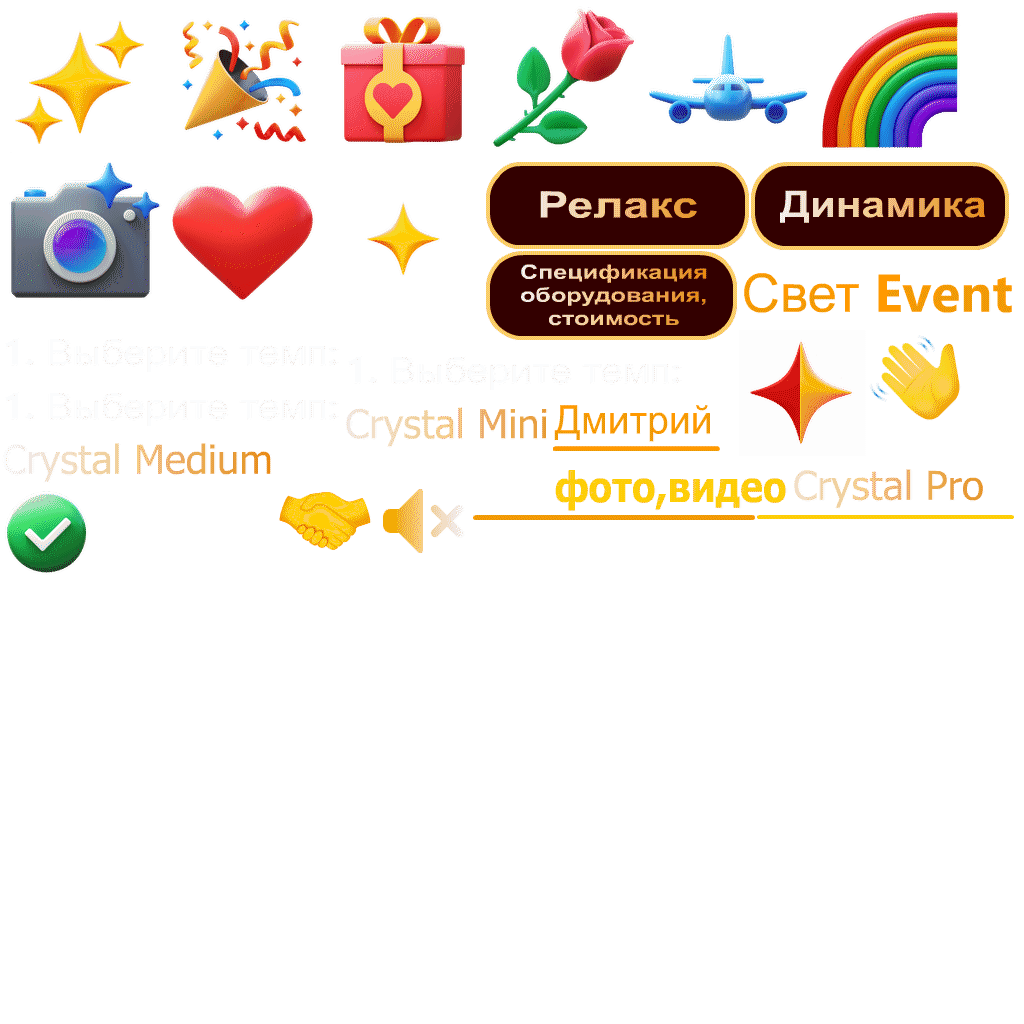
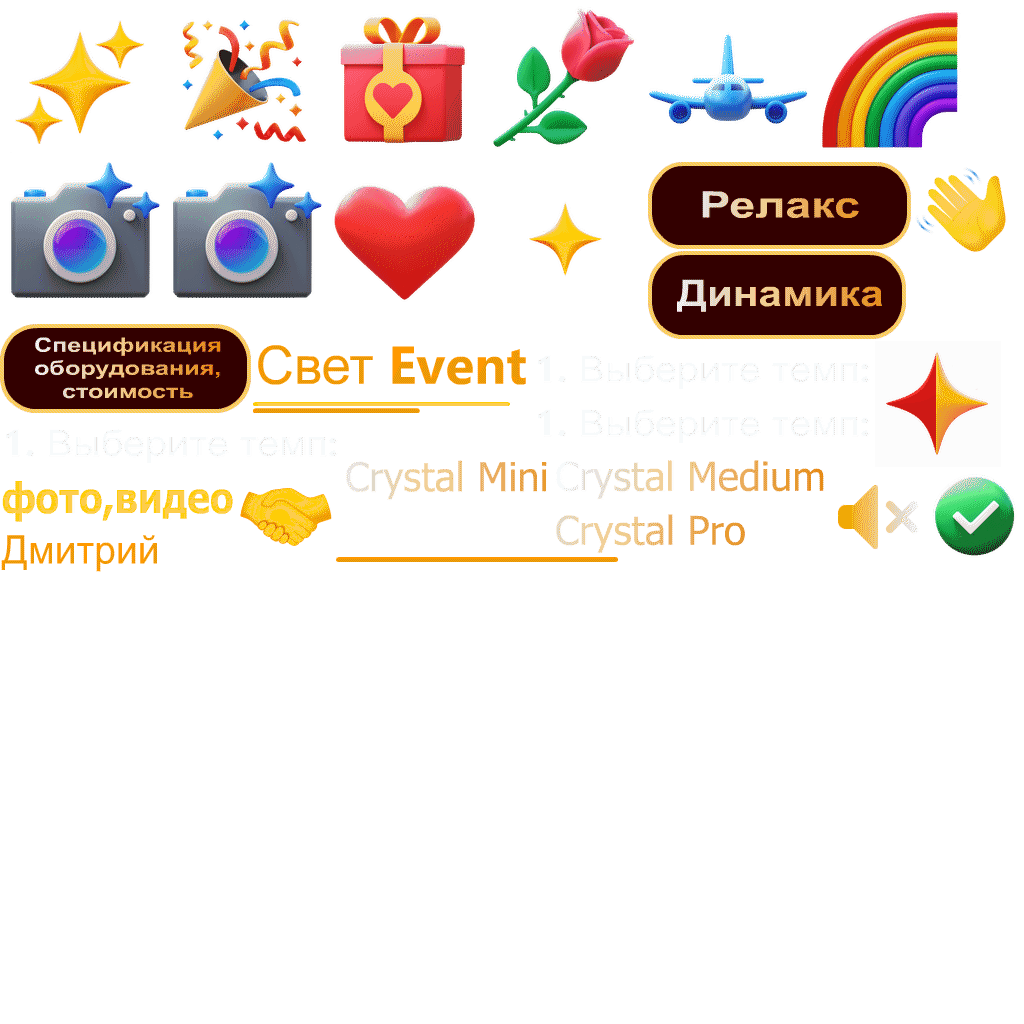
in

diff --git a/index.js b/index.js
@@ -3,7 +3,7 @@
 var p; // shortcut to reference prototypes
 var lib={};var ss={};var img={};
 lib.ssMetadata = [
-		{name:"index_atlas_1", frames: [[473,515,282,5],[739,252,277,76],[553,396,162,48],[553,446,167,5],[0,324,341,52],[343,342,341,52],[0,378,341,52],[553,458,236,55],[757,515,257,4],[486,251,251,89],[343,396,208,75],[486,162,263,87],[0,432,275,52],[751,162,258,88],[791,458,195,52],[739,330,126,126],[0,0,160,160],[0,486,94,94],[162,0,160,160],[324,0,160,160],[486,0,160,160],[648,0,160,160],[867,330,96,96],[810,0,160,160],[277,473,96,96],[0,162,160,160],[162,162,160,160],[324,162,160,160],[375,473,96,96]]},
+		{name:"index_atlas_1", frames: [[336,557,282,5],[253,324,277,76],[0,526,162,48],[253,408,167,5],[532,341,341,52],[532,395,341,52],[0,415,341,52],[0,469,236,55],[253,402,257,4],[0,324,251,89],[343,449,208,75],[648,162,263,87],[553,449,275,52],[648,251,258,88],[553,503,195,52],[875,341,126,126],[0,0,160,160],[928,469,94,94],[162,0,160,160],[324,0,160,160],[486,0,160,160],[648,0,160,160],[913,162,96,96],[810,0,160,160],[238,469,96,96],[0,162,160,160],[162,162,160,160],[324,162,160,160],[486,162,160,160],[830,469,96,96]]},
 		{name:"index_atlas_2", frames: [[0,0,973,1413],[0,1415,1118,176],[1120,1425,361,264],[0,1593,1118,176],[1120,1691,361,264],[0,1771,1118,176],[1483,1430,361,264],[1846,1430,160,160],[1483,1696,240,240],[1846,1592,160,160],[1725,1754,160,160],[1120,1026,447,397],[975,0,1024,1024],[1569,1026,353,402]]}
 ];
 
@@ -245,12 +245,6 @@ lib.ssMetadata = [
 
 
 
-(lib.PRICE1 = function() {
-	this.initialize(img.PRICE1);
-}).prototype = p = new cjs.Bitmap();
-p.nominalBounds = new cjs.Rectangle(0,0,1637,2310);
-
-
 (lib.PRICE2 = function() {
 	this.initialize(img.PRICE2);
 }).prototype = p = new cjs.Bitmap();
@@ -326,23 +320,30 @@ p.nominalBounds = new cjs.Rectangle(0,0,1637,2310);
 
 
 
-(lib.s_9 = function() {
+(lib.s_5_1 = function() {
 	this.initialize(ss["index_atlas_1"]);
 	this.gotoAndStop(26);
 }).prototype = p = new cjs.Sprite();
 
 
 
-(lib.standart = function() {
+(lib.s_9 = function() {
 	this.initialize(ss["index_atlas_1"]);
 	this.gotoAndStop(27);
 }).prototype = p = new cjs.Sprite();
 
 
 
-(lib.zv = function() {
+(lib.standart = function() {
 	this.initialize(ss["index_atlas_1"]);
 	this.gotoAndStop(28);
+}).prototype = p = new cjs.Sprite();
+
+
+
+(lib.zv = function() {
+	this.initialize(ss["index_atlas_1"]);
+	this.gotoAndStop(29);
 }).prototype = p = new cjs.Sprite();
 // helper functions:
 
@@ -388,6 +389,28 @@ if (reversed == null) { reversed = false; }
 	this._renderFirstFrame();
 
 }).prototype = getMCSymbolPrototype(lib.video_slot, new cjs.Rectangle(-1,-1,1063.1,1063.1), null);
+
+
+(lib.Symbol55 = function(mode,startPosition,loop,reversed) {
+if (loop == null) { loop = true; }
+if (reversed == null) { reversed = false; }
+	var props = new Object();
+	props.mode = mode;
+	props.startPosition = startPosition;
+	props.labels = {};
+	props.loop = loop;
+	props.reversed = reversed;
+	cjs.MovieClip.apply(this,[props]);
+
+	// Layer_1
+	this.instance = new lib.s_5();
+	this.instance.setTransform(0,0,5.735,5.0363);
+
+	this.timeline.addTween(cjs.Tween.get(this.instance).wait(1));
+
+	this._renderFirstFrame();
+
+}).prototype = getMCSymbolPrototype(lib.Symbol55, new cjs.Rectangle(0,0,917.6,805.8), null);
 
 
 (lib.Symbol11 = function(mode,startPosition,loop,reversed) {
@@ -772,29 +795,6 @@ if (reversed == null) { reversed = false; }
 
 }).prototype = p = new cjs.MovieClip();
 p.nominalBounds = new cjs.Rectangle(0,0,1067.8,1562.5);
-
-
-(lib.Price1 = function(mode,startPosition,loop,reversed) {
-if (loop == null) { loop = true; }
-if (reversed == null) { reversed = false; }
-	var props = new Object();
-	props.mode = mode;
-	props.startPosition = startPosition;
-	props.labels = {};
-	props.loop = loop;
-	props.reversed = reversed;
-	cjs.MovieClip.apply(this,[props]);
-
-	// Layer_5
-	this.instance = new lib.PRICE1();
-	this.instance.setTransform(0,0,0.6512,0.675);
-
-	this.timeline.addTween(cjs.Tween.get(this.instance).wait(12));
-
-	this._renderFirstFrame();
-
-}).prototype = p = new cjs.MovieClip();
-p.nominalBounds = new cjs.Rectangle(0,0,1066,1559.4);
 
 
 (lib.Mute = function(mode,startPosition,loop,reversed) {
@@ -1382,9 +1382,9 @@ if (reversed == null) { reversed = false; }
 	this.timeline.addTween(cjs.Tween.get(this).call(this.frame_0).wait(12));
 
 	// Price1
-	this.pr1_foto = new lib.Price1();
+	this.pr1_foto = new lib.Symbol55();
 	this.pr1_foto.name = "pr1_foto";
-	this.pr1_foto.setTransform(543,1040.6,1,1,0,0,0,533,779.6);
+	this.pr1_foto.setTransform(537.8,854.9,1,1,0,0,0,458.8,402.9);
 
 	this.timeline.addTween(cjs.Tween.get(this.pr1_foto).wait(12));
 
@@ -1485,7 +1485,7 @@ if (reversed == null) { reversed = false; }
 	this._renderFirstFrame();
 
 }).prototype = p = new cjs.MovieClip();
-p.nominalBounds = new cjs.Rectangle(10,117.4,1145.2,1756.3999999999999);
+p.nominalBounds = new cjs.Rectangle(12.2,117.4,1143,1756.3999999999999);
 
 
 (lib.page_3 = function(mode,startPosition,loop,reversed) {
@@ -2754,7 +2754,7 @@ if (reversed == null) { reversed = false; }
 	this.instance_6 = new lib.s_37();
 	this.instance_6.setTransform(899,1110,0.2892,0.2975);
 
-	this.instance_7 = new lib.s_5();
+	this.instance_7 = new lib.s_5_1();
 	this.instance_7.setTransform(232,1326,0.3669,0.3919);
 
 	this.instance_8 = new lib.s_20();
@@ -2829,7 +2829,7 @@ if (reversed == null) { reversed = false; }
 	// actions tween:
 	this.timeline.addTween(cjs.Tween.get(this).call(this.frame_0).wait(4));
 
-	// page2_copy
+	// page3
 	this.page1 = new lib.page_3();
 	this.page1.name = "page1";
 	this.page1.setTransform(545.65,966.8,1.0347,1.0351,0,0,0,540.5,966.3);
@@ -2874,7 +2874,6 @@ lib.properties = {
 	color: "#FFFFFF",
 	opacity: 1.00,
 	manifest: [
-		{src:"images/PRICE1.png", id:"PRICE1"},
 		{src:"images/PRICE2.png", id:"PRICE2"},
 		{src:"images/PRICE3.png", id:"PRICE3"},
 		{src:"images/index_atlas_1.png", id:"index_atlas_1"},
